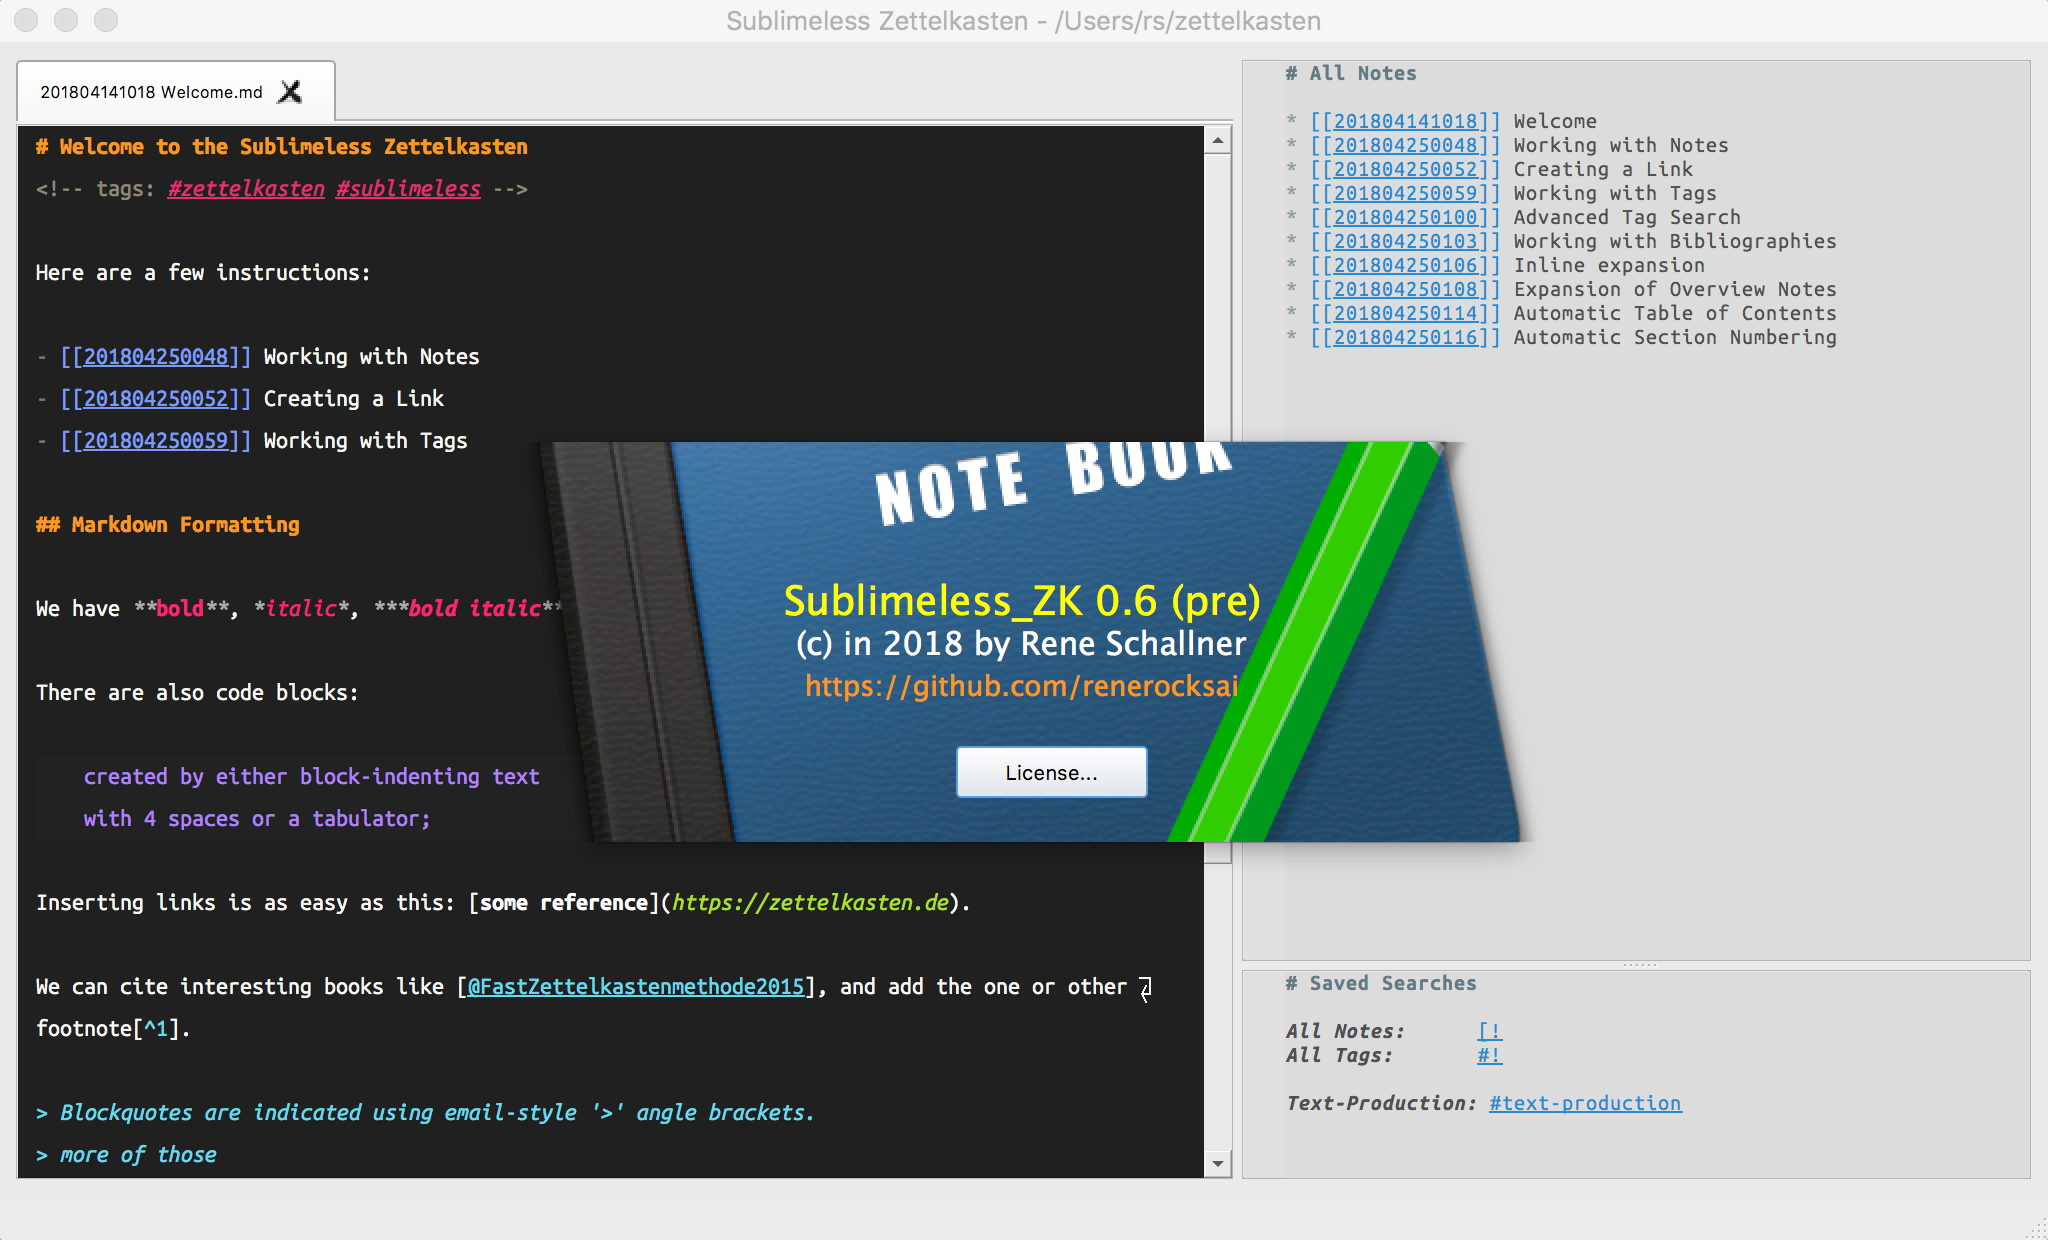
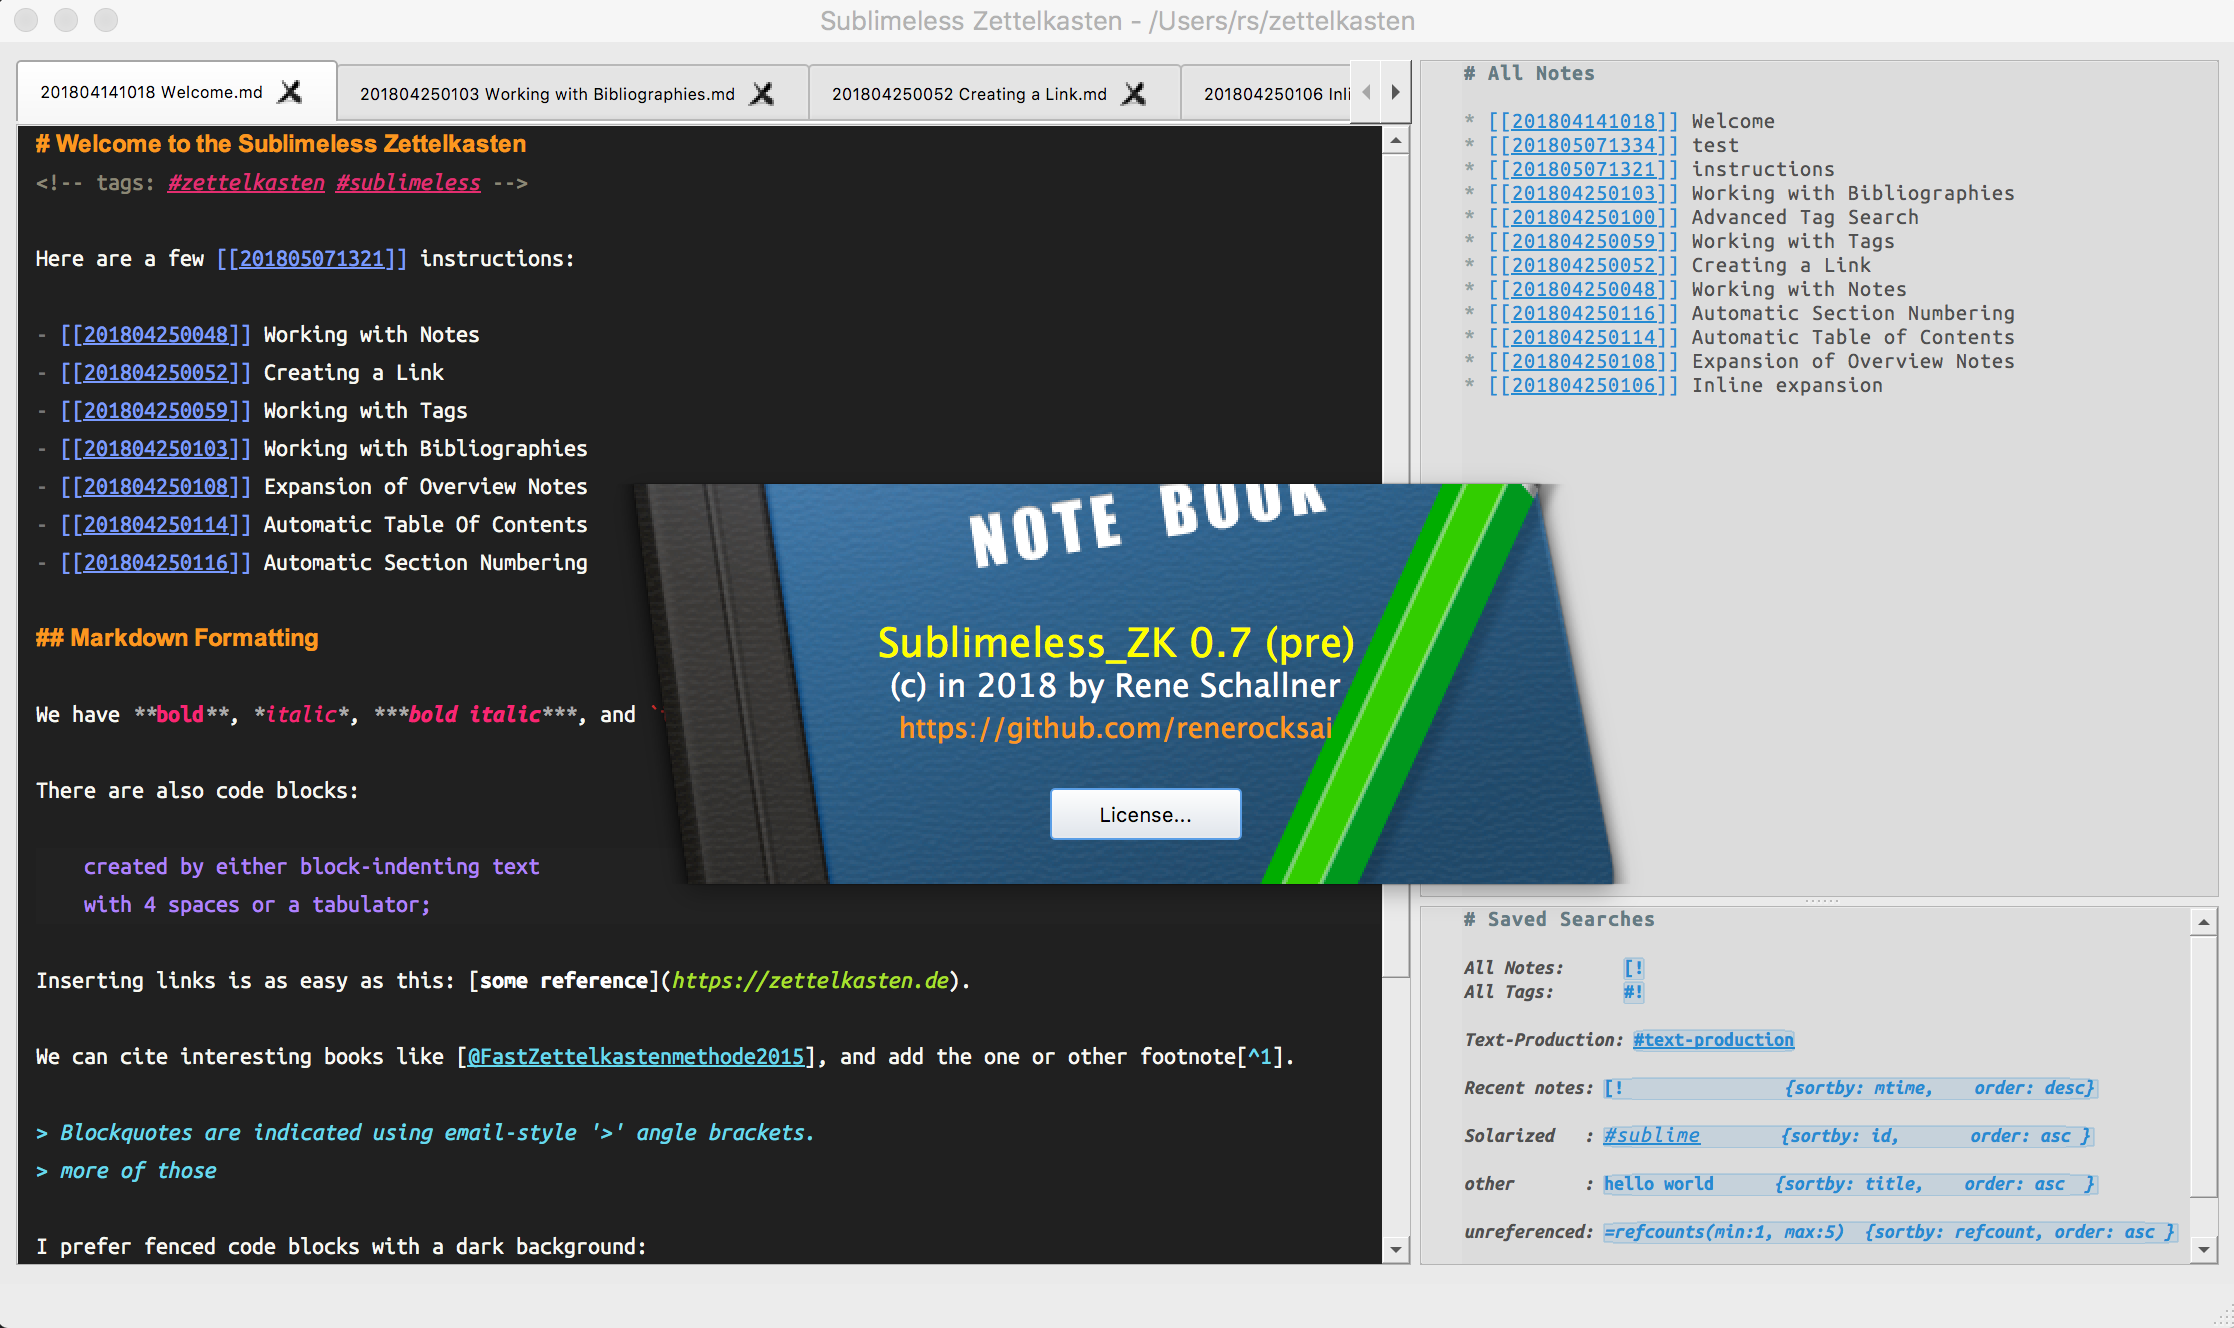
fix #60 saved searches improvements

Changed region(s): [[0.0, 0.0, 1.0, 0.95], [0.3125, 0.8887, 0.4062, 0.9194]]

diff --git a/src/sublimeless_zk.py b/src/sublimeless_zk.py
@@ -916,8 +916,9 @@ class Sublimeless_Zk(QObject):
     ''''''
 
     def show_all_notes(self, check_editor=True):
+        sort, order = self.retrieve_sort_and_order()
         note_files = self.project.get_all_note_files()
-        self.project.externalize_note_links(note_files, '# All Notes')
+        self.project.externalize_note_links(note_files, '# All Notes', sort=sort, order=order)
         self.reload(self.gui.search_results_editor)
 
         # the lexer sends us an int, the QAction a bool
@@ -1257,11 +1258,51 @@ class Sublimeless_Zk(QObject):
         result_text = TextProduction.refresh_result(complete_text, self.project)
         editor.setText(result_text)
 
+    def parse_current_search_attrs(self, spec):
+        p_sub = re.compile(r'\s*?(=\w*?\(.*?\)\s*?)?{sortby:\s*?(id|title|refcount|mtime)\s*?(,\s*?order:\s*?(asc|desc))?\s*}')
+        
+        match = p_sub.search(spec)
+        attrs = {
+            'function': None,
+            'args': {},
+            'sortby': None,
+            'order': None,
+            }
+        if match:
+            if match.group(1):
+                # parse function into args and name
+                p_foo = re.compile(r'\s*?=(\w+)\((.+?)\)')
+                sub_match = p_foo.match(match.group(1))
+                if sub_match:
+                    attrs['function'] = sub_match.group(1)
+                    t_args = sub_match.group(2).split(',')
+                    args = {}
+                    for t_arg in t_args:
+                        kv = t_arg.split(':')
+                        if len(kv) == 2:
+                            key, value = kv
+                            attrs['args'][key.strip()] = value.strip()
+            if match.group(2):
+                attrs['sortby'] = match.group(2)
+            if match.group(4):
+                attrs['order'] = match.group(4).lower()
+        # now remove attrs from the spec
+        new_spec = p_sub.sub('', spec)
+        return new_spec, attrs
+ 
+
     def advanced_tag_search(self, search_spec=None):
         if not search_spec:
             search_spec = show_input_panel(None, '#tags and not !#tags:', '')
         if not search_spec:
             return
+        # get search attrs and strip them from search term
+        search_spec, attrs = self.parse_current_search_attrs(search_spec)
+        
+        # remember current search attrs
+        self.current_search_attrs = attrs
+        sort, order = self.retrieve_sort_and_order()
+
         if search_spec.startswith('[!'):
             self.show_all_notes(check_editor=False)
             return
@@ -1272,10 +1313,26 @@ class Sublimeless_Zk(QObject):
         if search_spec.strip().startswith('#') or search_spec.startswith('!#'):
             notes = TagSearch.advanced_tag_search(search_spec, self.project)
             notes = [self.project.note_file_by_id(note_id) for note_id in notes]
-            self.project.externalize_note_links(notes, '# Notes matching search ' + search_spec)
+            self.project.externalize_note_links(notes, '# Notes matching search ' + search_spec, sort=sort, order=order)
             self.reload(self.gui.search_results_editor)
-        else:
+        elif 'function' in attrs and attrs['function'] is not None:
+            if attrs['function'] == 'refcounts':
+                # sanitize args
+                args = self.current_search_attrs['args']
+                try:
+                    refmin = int(args.get('min', 0))
+                except ValueError:
+                    refmin = 0
+                try:
+                    refmax = int(args.get('max', 1000))
+                except ValueError:
+                    refmax = 1000
+                self.current_search_attrs['args']['min'] = refmin
+                self.current_search_attrs['args']['max'] = refmax
+                self.find_notes_with_refcounts()
+        elif search_spec:
             self.find_in_files(search_spec)
+        self.current_search_attrs = None
         return
 
     def show_images(self):
@@ -1316,6 +1373,7 @@ class Sublimeless_Zk(QObject):
         about.exec_()
 
     def find_in_files(self, search_terms=None):
+        sort, order = self.retrieve_sort_and_order()
         if not search_terms:
             search_terms = show_input_panel(None, 'Find in files:', '')
         if not search_terms:
@@ -1346,7 +1404,7 @@ class Sublimeless_Zk(QObject):
                         break
                 else:
                     result_notes.append(note)
-        self.project.externalize_note_links(result_notes, '# Notes matching search ' + orig_search_terms)
+        self.project.externalize_note_links(result_notes, '# Notes matching search ' + orig_search_terms, sort=sort, order=order)
         self.reload(self.gui.search_results_editor)
         return result_notes
 
@@ -1627,16 +1685,32 @@ class Sublimeless_Zk(QObject):
                     return False
         return True
     
+    def retrieve_sort_and_order(self):
+        sort = None
+        order = None
+        if self.current_search_attrs:
+            sort = self.current_search_attrs.get('sortby', None)
+            order = self.current_search_attrs.get('order', None)
+        return sort, order
+
     def find_notes_with_refcounts(self):
-        refmin, refmax = show_find_refcount_dlg(self.gui)
+        sort, order = self.retrieve_sort_and_order()
+        if not self.current_search_attrs:
+            refmin, refmax = show_find_refcount_dlg(self.gui)
+        else:
+            args = self.current_search_attrs['args']
+            refmin = int(args.get('min', 0))
+            refmax = int(args.get('max', 1000))
+
         if refmin is None:
             return
         
         d = self.project.get_notes_with_refcounts(refmin, refmax)
         title = f'Notes with min. {refmin} and max. {refmax} references'
         note_files = [x[2] for x in d.values()]
-        refcounts = {note_id: x[0] for note_id, x in d.items()}  # produce a dict of refcounts 
-        self.project.externalize_note_links(note_files, prefix=title, refcounts=refcounts, sort='mtime', order='desc')
+        refcounts = {note_id: x[0] for note_id, x in d.items()} # produce a dict of refcounts 
+        
+        self.project.externalize_note_links(note_files, prefix=title, refcounts=refcounts, sort=sort, order=order)
         self.reload(self.gui.search_results_editor)
         
 

diff --git a/src/zkmdlexer.py b/src/zkmdlexer.py
@@ -95,14 +95,15 @@ class ZkMdLexer(QsciLexerCustom):
         editor = self.parent()
         editor.indicatorDefine(QsciScintilla.PlainIndicator, self.indicator_id_noteid)
         editor.indicatorDefine(QsciScintilla.PlainIndicator, self.indicator_id_tag)
-        editor.indicatorDefine(QsciScintilla.PlainIndicator, self.indicator_id_search_spec)
+        editor.indicatorDefine(QsciScintilla.RoundBoxIndicator, self.indicator_id_search_spec)
         editor.indicatorDefine(QsciScintilla.PlainIndicator, self.indicator_id_only_notetitle)
         editor.indicatorDefine(QsciScintilla.PlainIndicator, self.indicator_id_citekey)
 
         editor.indicatorClicked.connect(self.on_click_indicator)
         editor.setIndicatorForegroundColor(QColor(self.theme.style_infos['zettel.link']['color']), self.indicator_id_noteid)
         editor.setIndicatorForegroundColor(QColor(self.theme.style_infos['tag']['color']), self.indicator_id_tag)
-        editor.setIndicatorForegroundColor(QColor(self.theme.style_infos['search.spec']['color']), self.indicator_id_search_spec)
+        #editor.setIndicatorForegroundColor(QColor(self.theme.style_infos['search.spec']['color']), self.indicator_id_search_spec)
+        editor.setIndicatorForegroundColor(QColor('#1f268bd2'), self.indicator_id_search_spec)
         editor.setIndicatorForegroundColor(QColor(self.theme.style_infos['zettel.link']['color']), self.indicator_id_only_notetitle)
         editor.setIndicatorForegroundColor(QColor(self.theme.style_infos['citekey']['color']), self.indicator_id_citekey)
         self.setAutoIndentStyle(0) # we are block based --> use blockLookback
@@ -245,16 +246,32 @@ class ZkMdLexer(QsciLexerCustom):
 
         # only for search spec area: search specs:
         if self.highlight_saved_searches:
+
             p = re.compile(r'(^.+?: )([ \t]*)([^\n]+?)$', flags=re.MULTILINE)    # don't capture the newline! we don't want to highlight till EOL
+            p_sub = re.compile(r'(=\w+?\(.+?\)\s*?)?{sortby:\s*?(id|title|refcount|mtime)\s*?(,\s*?order:\s*?(asc|desc))?\s*?}')
             for match in p.finditer(text):
                 #print(match.groups())
                 a1 = match.start(1)
                 a2 = match.start(3)
                 b = match.end()
-                regions.append((a1, a2, match.group(1)+match.group(2), 'search.name'))
-                regions.append((a2, b, match.group(3), 'search.spec'))
+
+                regions.append((a1, a2, match.group(1) + match.group(2), 'search.name'))
+                # only style if the function is not the whole spec
+                #   because that will be done later
+                if not p_sub.match(match.group(3)):
+                    regions.append((a2, b, match.group(3), 'search.spec'))
+
                 # make clickable
                 self.make_clickable(a2, len(match.group(3)), self.indicator_id_search_spec)
+
+            # special instructions
+            for match in p_sub.finditer(text):
+                #print('search code:', match.group())
+                a = match.start()
+                b = match.end()
+                regions.append((a, b, match.group(), 'search.code'))
+            
+
 
         # tags in comments (but not in code blocks)
         # hence, consume code blocks first
@@ -541,7 +558,7 @@ class ZkMdLexer(QsciLexerCustom):
 
     def apply_regions(self, regions, text):
         # sort and split regions
-        regions = [r for r in regions if r[0] < r[1]]    # filter out empty regions
+        regions = [r for r in regions if r[0] < r[1]] # filter out empty regions
         csr = CascadingStyleRegions(text)
         regions = csr.apply_regions(regions)
 
@@ -567,7 +584,6 @@ class ZkMdLexer(QsciLexerCustom):
         #if gap > 0:
         #    gap_b = len(bytearray(text[current_pos:], 'utf-8'))
         #    style_regions.append((gap_b, 'default'))
-
         for num_chars, style in style_regions:
             # if num_chars > 0:
                 self.setStyling(num_chars, self.style2id[style])

diff --git a/src/themes.py b/src/themes.py
@@ -13,6 +13,7 @@ class Theme:
 
     @staticmethod
     def prepare_theme_folder():
+        always_deploy = ['saved_searches.json']
         if not os.path.exists(Theme.theme_folder()):
             os.makedirs(Theme.theme_folder(), exist_ok=True)
         # copy sample themes
@@ -20,7 +21,7 @@ class Theme:
         for f in os.listdir(themes_src):
             src = os.path.join(themes_src, f)
             dest = os.path.join(Theme.theme_folder(), f)
-            if not os.path.exists(dest):
+            if not os.path.exists(dest) or f in always_deploy:
                 copy2(src, dest)
         return Theme.theme_folder()
 
@@ -148,7 +149,7 @@ class Theme:
             self.get_theme_style(hname)
         for style in ('code.fenced', 'code', 'list.symbol', 'list.unordered',
                       'list.ordered', 'tag', 'citekey', 'zettel.link', 'comment',
-                      'footnote', 'search.name', 'search.spec'):
+                      'footnote', 'search.name', 'search.spec', 'search.code'):
             self.get_theme_style(style)
 
         link_dict = theme_d.get('link', {})
